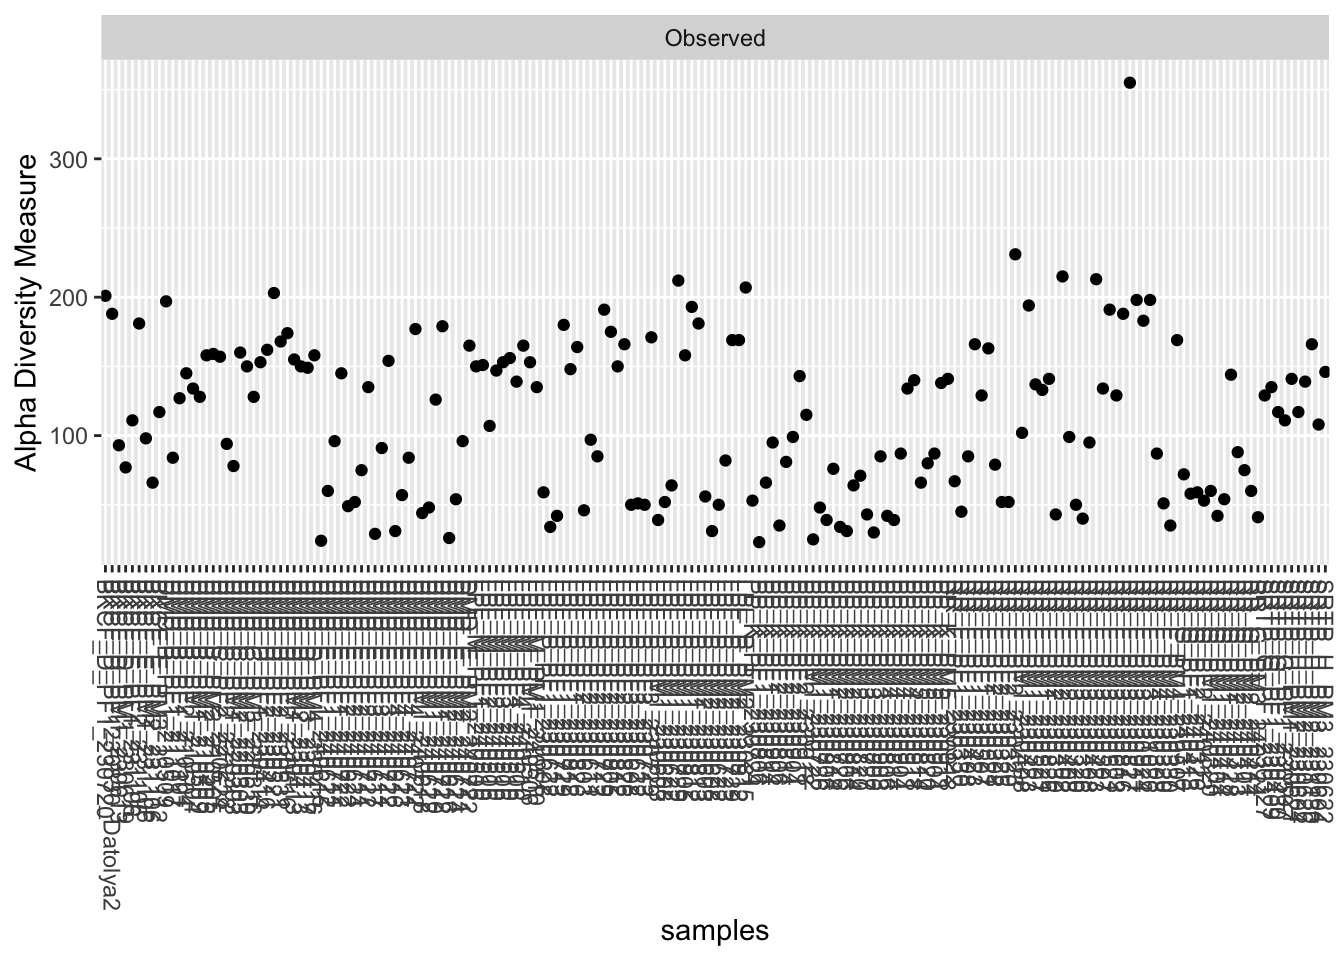
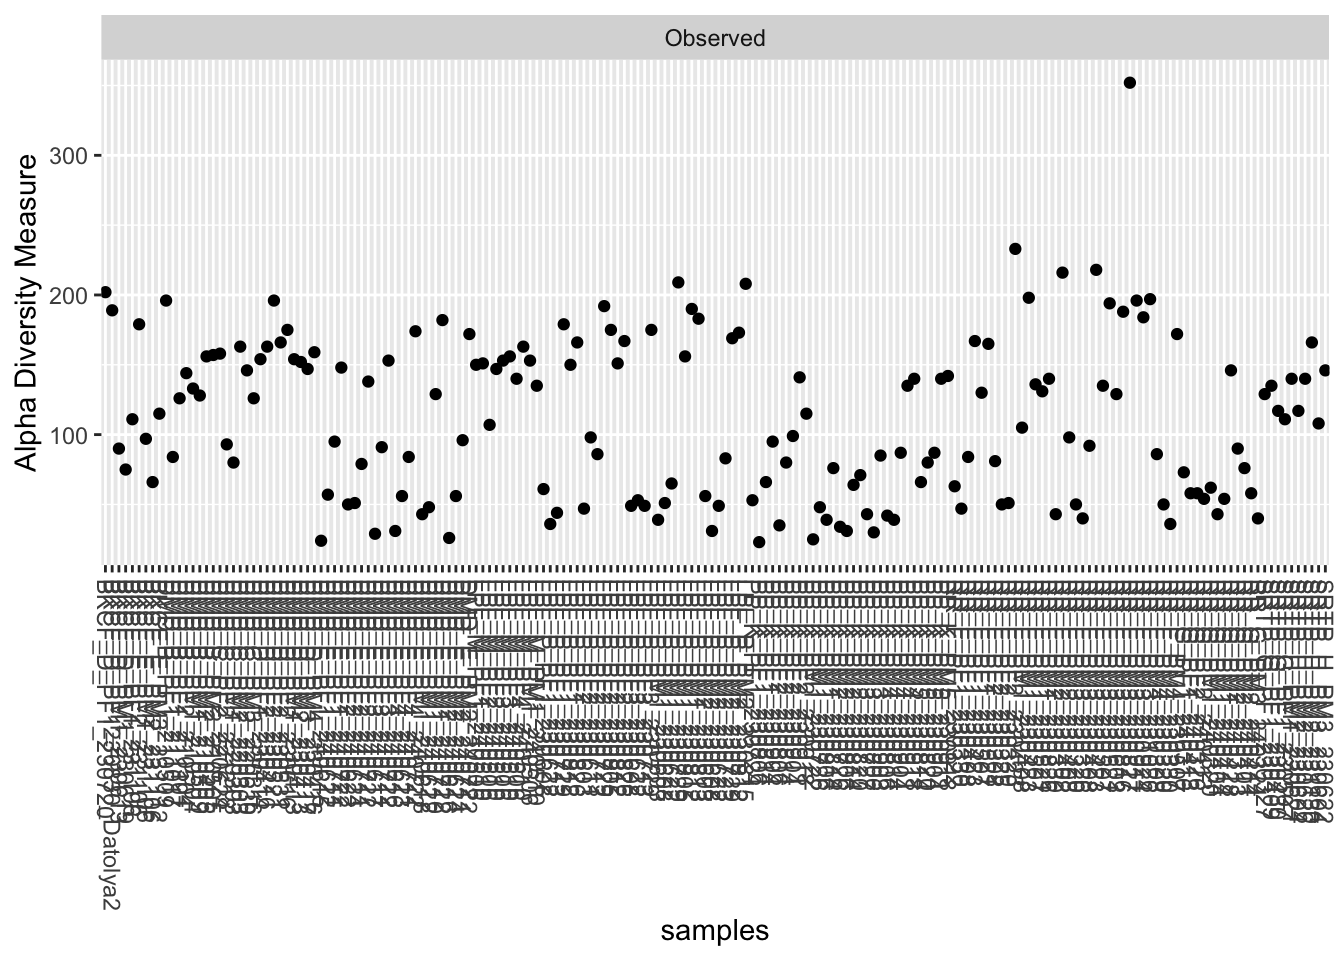
update-tutorial

diff --git a/docs/tutorial.html b/docs/tutorial.html
@@ -922,7 +922,7 @@ FALSE): most observed count data have counts 1, but smallest count is 10</code><
 </div>
 </div>
 <p><strong>What does this distribution tell us?</strong></p>
-<p>We can also do this with species prevalence: In what proportion of samples is a species found</p>
+<p><strong>We can also do this with species prevalence: In what proportion of samples is a species found</strong></p>
 <div class="cell">
 <div class="code-copy-outer-scaffold"><div class="sourceCode cell-code" id="cb42"><pre class="sourceCode r code-with-copy"><code class="sourceCode r"><span id="cb42-1"><a href="#cb42-1" aria-hidden="true" tabindex="-1"></a><span class="co"># Number of samples in which each species is detected</span></span>
 <span id="cb42-2"><a href="#cb42-2" aria-hidden="true" tabindex="-1"></a>prevalence <span class="ot">&lt;-</span> <span class="fu">apply</span>(</span>
@@ -960,7 +960,8 @@ FALSE): most observed count data have counts 1, but smallest count is 10</code><
 <span id="cb42-34"><a href="#cb42-34" aria-hidden="true" tabindex="-1"></a>  <span class="fu">nrow</span>(merged_df_prevalence)</span>
 <span id="cb42-35"><a href="#cb42-35" aria-hidden="true" tabindex="-1"></a>)</span></code></pre></div><button title="Copy to Clipboard" class="code-copy-button"><i class="bi"></i></button></div>
 </div>
-<p><strong>Compare the distribution of species with prevalence. Are there species that are abundant and not prevalent or vice-versa?</strong></p>
+<p><strong>Take a look at the species that are most prevalent</strong></p>
+<p><strong>Are they the same ones that are abundant?</strong></p>
 </section>
 <section id="optional-section-9.-1-statistical-analyses-for-beta-diversity" class="level1">
 <h1>Optional Section 9. 1: Statistical Analyses for Beta-Diversity</h1>
@@ -988,7 +989,7 @@ See `?set.seed`</code></pre>
 <pre><code>...</code></pre>
 </div>
 <div class="cell-output cell-output-stderr">
-<pre><code>1207OTUs were removed because they are no longer 
+<pre><code>1206OTUs were removed because they are no longer 
 present in any sample after random subsampling</code></pre>
 </div>
 <div class="cell-output cell-output-stderr">
@@ -1012,9 +1013,9 @@ Number of permutations: 999
 
 adonis2(formula = bray.distance.puppies.birthstudy ~ puppies_mode_of_delivery, data = meta.birth)
          Df SumOfSqs      R2      F Pr(&gt;F)    
-Model     1   0.4912 0.31107 6.7729  0.001 ***
-Residual 15   1.0879 0.68893                  
-Total    16   1.5791 1.00000                  
+Model     1  0.49286 0.31173 6.7939  0.001 ***
+Residual 15  1.08818 0.68827                  
+Total    16  1.58104 1.00000                  
 ---
 Signif. codes:  0 '***' 0.001 '**' 0.01 '*' 0.05 '.' 0.1 ' ' 1</code></pre>
 </div>
